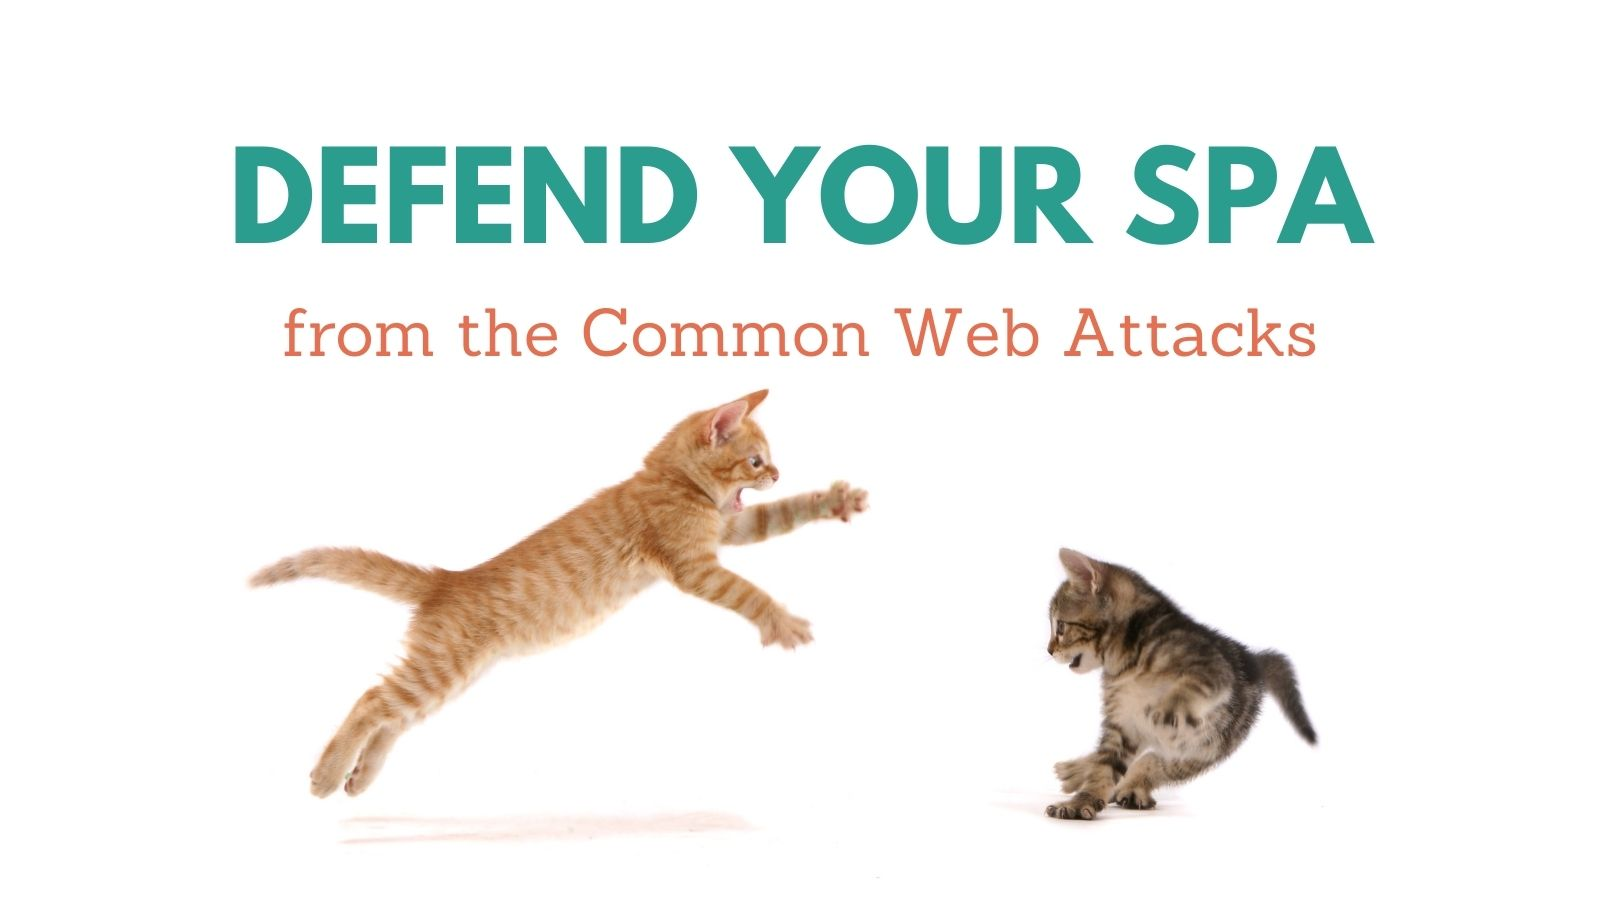
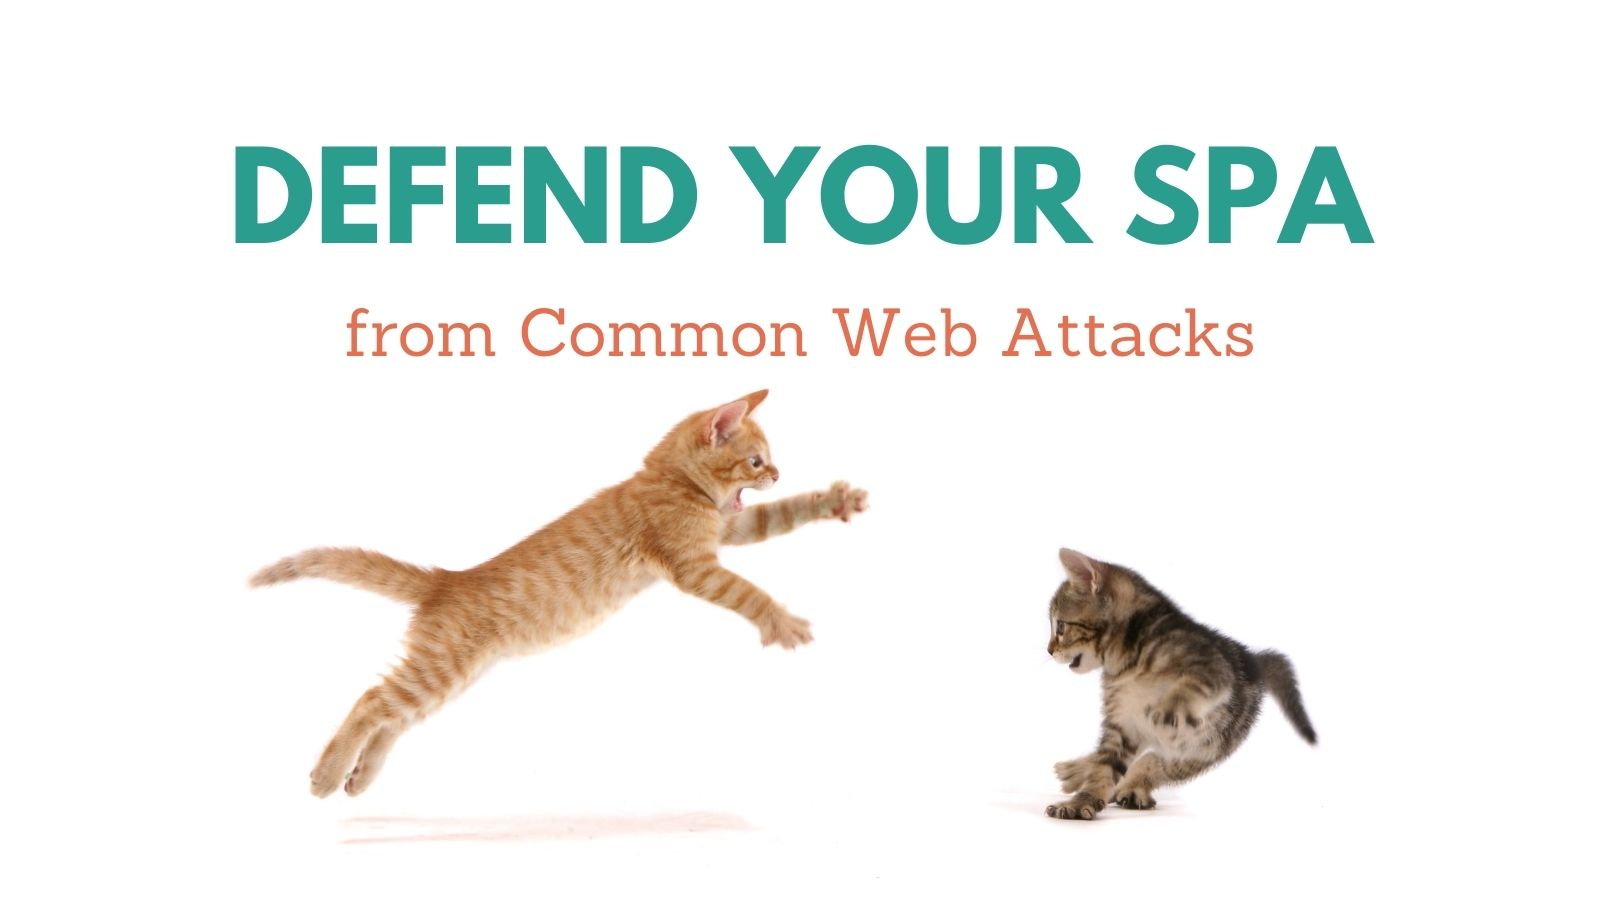
update title

Changed region(s): [[0.1562, 0.3422, 0.8438, 0.4044]]

diff --git a/_source/_posts/2022-07-08-spa-web-security-csrf-xss.md b/_source/_posts/2022-07-08-spa-web-security-csrf-xss.md
@@ -1,6 +1,6 @@
 ---
 layout: blog_post
-title: "Defend Your SPA from the Common Web Attacks"
+title: "Defend Your SPA from Common Web Attacks"
 author: alisa-duncan
 by: advocate
 communities: [security,javascript]
@@ -18,7 +18,7 @@ This is the second post in a series about web security for SPAs. In the last pos
 |Posts in the SPA web security series|
 | --- |
 | 1. [Defend Your SPA from Security Woes](/blog/2022/07/06/spa-web-security) |
-| 2. [Defend Your SPA from the Common Web Attacks](/blog/2022/07/08/spa-web-securty-csrf-xss) |
+| 2. [Defend Your SPA from Common Web Attacks](/blog/2022/07/08/spa-web-securty-csrf-xss) |
 
  Ready to continue and make your SPA safer? This post will use the concepts we introduced to banish some well-known web vulnerabilities.
 
@@ -102,7 +102,7 @@ Stay tuned for the next post in this series as we dive deeper into CSRF and lear
 |Posts in the SPA web security series|
 | --- |
 | 1. [Defend Your SPA from Security Woes](/blog/2022/07/06/spa-web-security) |
-| 2. [Defend Your SPA from the Common Web Attacks](/blog/2022/07/08/spa-web-securty-csrf-xss) |
+| 2. [Defend Your SPA from Common Web Attacks](/blog/2022/07/08/spa-web-securty-csrf-xss) |
 
 Ready to learn more? Check out out the following resources.
 * [A Comparison of Cookies and Tokens for Secure Authentication](/blog/2022/02/08/cookies-vs-tokens)
